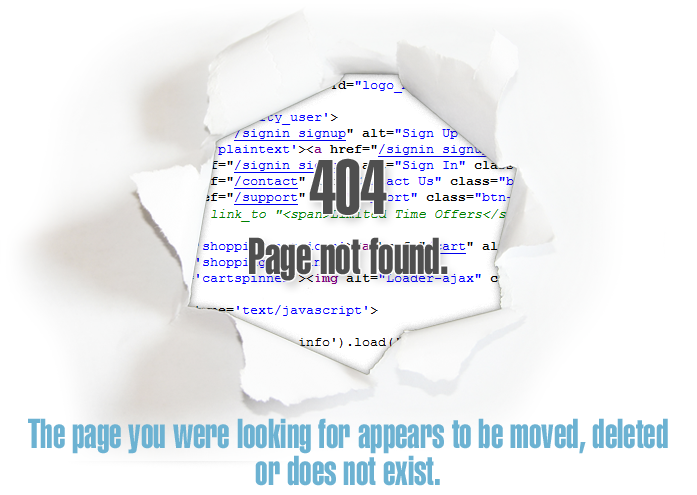
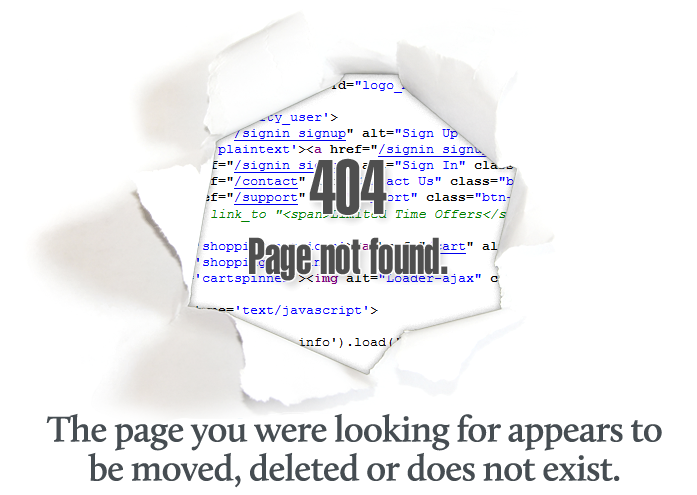
404 update

Changed region(s): [[0.0301, 0.8182, 0.9641, 1.0]]

diff --git a/public/404_szus.html b/public/404_szus.html
@@ -1,161 +1,193 @@
-<html lang="en-US">
-<head>
-<title>Sizzix.com
--
-Die-Cutting and Embossing Tools for Today’s Crafter</title>
-<meta name="keywords" content="Papercrafting, arts &amp; crafts, crafting, cardmaking, scrapbooking, altered art, Tim Holtz, appliqué, embossing, eclips, Big Shot Machine, Stamp2Cut, die-cutter, accessories, projects, birthday decorations, quilting, do-it-yourself">
-<meta name="p:domain_verify" content="b297c2f85e4b149150e902960266aac3">
-<meta http-equiv="X-UA-Compatible" content="IE=8">
-<meta name="description" content="Sizzix puts creativity in your hands with the craftiest die cutting machines, die cutting tools, accessories, and embossing equipment in the arts and craft industry!">
-<meta name="google-site-verification" content="a-tBw1x2TUwR80EavxHbXMxxiMYa5ban3haNUZPpQyE">
-<link type="text/css" rel="stylesheet" media="all" href="/stylesheets/jqui-ellison3/jquery-ui-1.8.4.custom.css?1420790110">
-<link type="text/css" rel="stylesheet" media="screen" href="/stylesheets/event_calendar.css?1420790110">
-<link type="text/css" rel="stylesheet" media="screen" href="/stylesheets/iphone-style-checkboxes.css?1420790110">
-<link type="text/css" rel="stylesheet" media="screen" href="/stylesheets/jquery.jqzoom.css?1420790110">
-<link type="text/css" rel="stylesheet" media="screen" href="/stylesheets/jquery.tooltip.css?1420790110">
-<link type="text/css" rel="stylesheet" media="screen" href="/stylesheets/jquery.validate.password.css?1420790110">
-<link type="text/css" rel="stylesheet" media="screen" href="/stylesheets/jqzoom.css?1420790110">
-<link type="text/css" rel="stylesheet" media="screen, projection" href="/stylesheets/compiled/screen_szus.css?1420790293">
-<link type="text/css" rel="stylesheet" media="screen, projection" href="/stylesheets/compiled/application.css?1420790278">
-<link type="text/css" rel="stylesheet" media="print" href="/stylesheets/compiled/print.css?1420790279">
-<!--[if lt IE 8]>
-<link href="/stylesheets/compiled/ie.css?1420790278" media="screen, projection" rel="stylesheet" type="text/css" />
-<![endif]-->
-<link type="text/css" rel="stylesheet" media="screen, projection" href="/stylesheets/jquery.jqzoom.css?1420790110">
-<link type="text/css" rel="stylesheet" media="screen, projection" href="/javascripts/fancybox/jquery.fancybox-1.3.4.css?1420790110">
-<link type="text/css" rel="stylesheet" media="screen, projection" href="/stylesheets/jquery.validate.password.css?1420790110">
-<link type="text/css" rel="stylesheet" media="screen, projection" href="/stylesheets/iphone-style-checkboxes.css?1420790110">
-<link type="text/css" rel="stylesheet" media="screen, projection" href="/stylesheets/jquery.tooltip.css?1420790110">
-<link type="text/css" rel="stylesheet" media="screen, projection" href="/stylesheets/bubblepopup/jquery.bubblepopup.v2.3.1.css?1420790110">
-<link type="text/css" rel="stylesheet" media="screen" href="/stylesheets/event_calendar.css?1420790110">
-<link type="text/css" rel="stylesheet" media="screen" href="/javascripts/cl_style.css?1420790110">
-<link type="text/css" rel="stylesheet" media="screen" href="/reskin_sheets/reskin.css?1420790096">
-<!--[if IE]>
-<link href="/reskin_sheets/ie-all.css?1420790096" media="screen" rel="stylesheet" type="text/css" />
-<![endif]-->
-<!-- Google Web Fonts -->
-<link type="text/css" rel="stylesheet" media="screen" href="http://fonts.googleapis.com/css?family=PT+Sans:regular,bold&amp;subset=latin">
-<script type="text/javascript" src="http://ajax.aspnetcdn.com/ajax/jQuery/jquery-1.5.2.min.js"></script>
-<script type="text/javascript" src="/javascripts/jquery-ui.js?1420790110"></script>
-<script type="text/javascript" src="/javascripts/jquery-ui-timepicker-addon.min.js?1420790110"></script>
-<script type="text/javascript" src="/javascripts/wymeditor/jquery.wymeditor.min.js?1420790110"></script>
-<script type="text/javascript" src="/javascripts/jquery.jqzoom-core-pack.js?1420790110"></script>
-<script type="text/javascript" src="/javascripts/jquery.form.js?1420790110"></script>
-<script type="text/javascript" src="/javascripts/fancybox/jquery.fancybox-1.3.4.pack.js?1420790110"></script>
-<script type="text/javascript" src="/javascripts/fancybox/jquery.easing-1.3.pack.js?1420790110"></script>
-<script type="text/javascript" src="/javascripts/jquery.validate.min.js?1420790110"></script>
-<script type="text/javascript" src="/javascripts/jquery.validate.password.js?1420790110"></script>
-<script type="text/javascript" src="/javascripts/jquery.ba-bbq.min.js?1420790110"></script>
-<script type="text/javascript" src="/javascripts/jquery.editinplace.js?1420790110"></script>
-<script type="text/javascript" src="/javascripts/iphone-style-checkboxes.js?1420790110"></script>
-<script type="text/javascript" src="/javascripts/jquery.tooltip.min.js?1420790110"></script>
-<script type="text/javascript" src="/javascripts/bubblepopup/jquery.bubblepopup.v2.3.1.min.js?1420790110"></script>
-<script type="text/javascript" src="/javascripts/date.js?1420790110"></script>
-<script type="text/javascript" src="/javascripts/application.js?1420790143"></script>
-<script type="text/javascript" src="/javascripts/view_toggle.js?1420790143"></script>
-<script type="text/javascript" src="/javascripts/store_locator.js?1420790110"></script>
-<script type="text/javascript" src="/javascripts/admin/store.js?1420790110"></script>
-<script type="text/javascript" src="/javascripts/shadowOn/jquery.dotimeout.js?1420790110"></script>
-<script type="text/javascript" src="/javascripts/shadowOn/jquery.guid.js?1420790110"></script>
-<script type="text/javascript" src="/javascripts/shadowOn/jquery.shadowon.min.js?1420790110"></script>
-<script type="text/javascript" src="/javascripts/sudoSlider/jquery.sudoSlider.min.js?1420790110"></script>
-<script type="text/javascript" src="/javascripts/fancybox/jquery.mousewheel-3.0.4.pack.js?1420790110"></script>
-<script type="text/javascript" src="/javascripts/jcarousellite/jcarousellite_1.0.1.min.js?1420790110"></script>
-<script type="text/javascript" src="/javascripts/fonteffect/jquery-fonteffect-1.0.0.min.js?1420790110"></script>
-<script type="text/javascript" src="/javascripts/countdown_timer.js?1420790110"></script>
-<script type="text/javascript" src="/javascripts/jumpmenu.js?1420790110"></script>
-<script type="text/javascript" src="/javascripts/uk_survey.js?1420790110"></script>
-<script type="text/javascript" src="/javascripts/hoverintent/jquery.hoverIntent.minified.js?1420790110"></script>
-<script type="text/javascript" src="/javascripts/event_calendar.js?1420790110"></script>
-<script type="text/javascript" src="/javascripts/jquery.rails.js?1420790110"></script>
-<script type="text/javascript" src="/javascripts/jquery.remotipart.js?1420790110"></script>
-<script type="text/javascript" src="/javascripts/rails_remote.js?1420790110"></script>
-<script type="text/javascript" src="/javascripts/jquery.uploadProgress.js?1420790110"></script>
-<script type="text/javascript" src="/javascripts/js_loader.js?1420790110"></script>
-<script type="text/javascript" src="/javascripts/reskin.js?1420790110"></script>
-<meta name="csrf-param" content="authenticity_token">
-<meta name="csrf-token" content="1RaAmbVTYFMd0WkSnOyp5B8iHJmdY3Kt6v5w9a+9+Yo=">
-<!-- System Favicons -->
-<link type="image/x-icon" rel="icon" href="/images/favicons/s_favicon.ico">
-<link type="image/x-icon" rel="shortcut icon" href="/images/favicons/s_favicon.ico">
-<!-- Sizzix UK Cookie Notify -->
-
-</head>
-<body class="bp" data-twttr-rendered="true" style="background:color:white!important;">
-<div id="root">
-  <div class="container">
-    <div class="design-gutter dontprint"> &nbsp; </div>
-    <div class="main">
-      <div style="height:139px;" id="header">
-        <div class="dontprint">
-          <h1 class="masthead"> <a href="/home" alt="Sizzix" id="logo_masthead" title="Sizzix">Sizzix</a> </h1>
+<html lang="en-US"><head>
+    <script type="text/javascript" async="" src="http://www.google-analytics.com/ga.js"></script><script src="http://platform.twitter.com/widgets.js" id="twitter-wjs"></script><script src="http://www.google-analytics.com/ga.js" async="" type="text/javascript"></script><script>
+      var current_system = "szus";
+    </script>
+    <title>
+      Sizzix.com
+      -
+      Die-Cutting and Embossing Tools for Today’s Crafter
+    </title>
+    <meta content="Papercrafting, arts &amp; crafts, crafting, cardmaking, scrapbooking, altered art, Tim Holtz, appliqué, embossing, eclips, Big Shot Machine, Stamp2Cut, die-cutter, accessories, projects, birthday decorations, quilting, do-it-yourself" name="keywords">
+    <meta content="b297c2f85e4b149150e902960266aac3" name="p:domain_verify">
+    <meta content="IE=8" http-equiv="X-UA-Compatible">
+    <meta content="Sizzix puts creativity in your hands with the craftiest die cutting machines, die cutting tools, accessories, and embossing equipment in the arts and craft industry!" name="description">
+    <meta content="a-tBw1x2TUwR80EavxHbXMxxiMYa5ban3haNUZPpQyE" name="google-site-verification">
+    <link href="/stylesheets/jqui-ellison3/jquery-ui-1.8.4.custom.css?1365520764" media="all" rel="stylesheet" type="text/css">
+    <link href="/stylesheets/event_calendar.css?1341939593" media="screen" rel="stylesheet" type="text/css">
+    <link href="/stylesheets/iphone-style-checkboxes.css?1341939593" media="screen" rel="stylesheet" type="text/css">
+    <link href="/stylesheets/jquery.jqzoom.css?1365520764" media="screen" rel="stylesheet" type="text/css">
+    <link href="/stylesheets/jquery.tooltip.css?1341939593" media="screen" rel="stylesheet" type="text/css">
+    <link href="/stylesheets/jquery.validate.password.css?1341939593" media="screen" rel="stylesheet" type="text/css">
+    <link href="/stylesheets/jqzoom.css?1365520764" media="screen" rel="stylesheet" type="text/css">
+    <link href="/stylesheets/compiled/screen_szus.css?1420837787" media="screen, projection" rel="stylesheet" type="text/css">
+    <link href="/stylesheets/compiled/application.css?1394555977" media="screen, projection" rel="stylesheet" type="text/css">
+    <link href="/stylesheets/compiled/print.css?1394554469" media="print" rel="stylesheet" type="text/css">
+    <!--[if lt IE 8]>
+      <link href="/stylesheets/compiled/ie.css?1394554469" media="screen, projection" rel="stylesheet" type="text/css" />
+    <![endif]-->
+    <link href="/stylesheets/jquery.jqzoom.css?1365520764" media="screen, projection" rel="stylesheet" type="text/css">
+    <link href="/javascripts/fancybox/jquery.fancybox-1.3.4.css?1341939593" media="screen, projection" rel="stylesheet" type="text/css">
+    <link href="/stylesheets/jquery.validate.password.css?1341939593" media="screen, projection" rel="stylesheet" type="text/css">
+    <link href="/stylesheets/iphone-style-checkboxes.css?1341939593" media="screen, projection" rel="stylesheet" type="text/css">
+    <link href="/stylesheets/jquery.tooltip.css?1341939593" media="screen, projection" rel="stylesheet" type="text/css">
+    <link href="/stylesheets/bubblepopup/jquery.bubblepopup.v2.3.1.css?1341939593" media="screen, projection" rel="stylesheet" type="text/css">
+    <link href="/stylesheets/event_calendar.css?1341939593" media="screen" rel="stylesheet" type="text/css">
+    <link href="/javascripts/cl_style.css?1345155977" media="screen" rel="stylesheet" type="text/css">
+    <link href="/reskin_sheets/reskin.css?1420837727" media="screen" rel="stylesheet" type="text/css">
+    <!--[if IE]>
+      <link href="/reskin_sheets/ie-all.css?1420833352" media="screen" rel="stylesheet" type="text/css" />
+    <![endif]-->
+    <!-- Google Web Fonts -->
+    <link href="http://fonts.googleapis.com/css?family=PT+Sans:regular,bold&amp;subset=latin" media="screen" rel="stylesheet" type="text/css">
+    <script src="http://ajax.aspnetcdn.com/ajax/jQuery/jquery-1.5.2.min.js" type="text/javascript"></script>
+    <!--[if IE]>
+      <script src="https://getfirebug.com/firebug-lite.js" type="text/javascript"></script>
+    <![endif]-->
+    <!-- System Favicons -->
+    <link href="/images/favicons/s_favicon.ico" rel="icon" type="image/x-icon">
+    <link href="/images/favicons/s_favicon.ico" rel="shortcut icon" type="image/x-icon">
+    <script>
+      var _gaq = _gaq || [];
+      _gaq.push(['_setAccount', 'UA-12678772-3']);
+      _gaq.push(['_trackPageview', location.pathname + location.hash + location.search]);
+    </script>
+    <script>
+      (function() {
+        var ga = document.createElement('script'); ga.type = 'text/javascript'; ga.async = true;
+        ga.src = ('https:' == document.location.protocol ? 'https://ssl' : 'http://www') + '.google-analytics.com/ga.js';
+        var s = document.getElementsByTagName('script')[0]; s.parentNode.insertBefore(ga, s);
+      })();
+    </script>
+    <!-- Sizzix UK Cookie Notify -->
+    
+  </head>
+  <body data-twttr-rendered="true" class="bp">
+    <div id="root">
+      <div class="container">
+        <div class="design-gutter dontprint">
+          &nbsp;
         </div>
-        <div class="dontdisplay" id="printmasthead">
-          <h1>Sizzix.com</h1>
-        </div>
-        <div class="dontprint" id="nav_megamenu"> </div>
-        <div class="clear"></div>
+        <div class="main">
+          <div style="height:149px!important;" id="header">
+            <div class="dontprint">
+              <h1 class="masthead">
+                <a href="/home" alt="Sizzix" id="logo_masthead" title="Sizzix">Sizzix</a>
+              </h1>
+              
+              
+              
+              
+              
+              <script>
+                $("input.textfield").addClass("idlefield");
+                $("input.textfield").focus(function(){
+                  $(this).addClass("activefield").removeClass("idlefield");
+                  $(this).val('');
+                }).blur(function(){
+                  $(this).removeClass("activefield").addClass("idlefield");
+                });
+                $("input.textfield").click(function(){
+                  $(this).val('');
+                });
+                
+                $('#q').change(function() {        
+                  $(this).removeClass("activefield").addClass("idlefield");
+                });
+                $("#q").autocomplete({
+                  source: function(request, response) {
+                    $.ajax({
+                      url: "/szus_solr_terms/"+request.term,
+                      dataType: 'text json',
+                      data: {},
+                      success: function( data ) {response($.map(data.terms[0][1],function(n,i){return n[0]}))}
+                    });
+                  },
+                  search: function() {
+                    if (this.value.length &amp;lt; 1) {
+                      return false;
+                    }
+                  },
+                  focus: function( event, ui ) {
+                          $(this).val( ui.item.label );
+                          return false;
+                        },
+                  select: function(event, ui) {
+                    this.value = ui.item.value;
+                    $(this.form).trigger('submit');
+                    return false;
+                  }});
+                $('#searchbar').submit(function() {
+                  var default_value = "Search for Sizzix Products &amp;amp; Projects";
+                  var search_value = escape($('#q').val());
+                  if (search_value == default_value) {
+                    return false;
+                  } else {
+                    location.href = 'http://'+location.host+'/catalog#q='+search_value;return false;
+                  }
+                });
+              </script>
+            </div>
+            <div class="dontdisplay" id="printmasthead">
+              <h1>Sizzix.com</h1>
+            </div>
+            <div class="clear"></div>
+          </div>
+          <div id="content">
+              <!-- This file lives in public/404_szus.html -->
+  <img width="697" height="495" style="margin-left:126px; margin-bottom:6px;" src="/images/ui-backgrounds/404.png" class="message">
+  
+<table width="472" cellspacing="0" cellpadding="0" border="0" style="width: 472px; margin-left: 238px;">
+  <tbody>
+    <tr>
+      <td class="text2" style="padding:2px 10px 0 10px"><table cellspacing="0" cellpadding="0" border="0" class="ui-widget ui-widget-content ui-corner-all">
+          <tbody>
+            
+          </tbody>
+        </table></td>
+    </tr>
+    <tr>
+      <td class="text2" style="padding:0 10px 11px 20px"><div class="text1boldblue">
+        <h2 align="center" style="font-weight:bold; color:#6CB2D2;">We Suggest:</h2>
       </div>
-      <div id="content">
-        <div class="main" style="padding-top:0px!important;>
-          <div id="content"> 
-            <!-- This file lives in public/404_szus.html --> 
-            <img class="message" src="/images/ui-backgrounds/404.png" width="697" height="495" style="margin-left:126px; margin-bottom:6px;"/>
-            <table width="472" cellspacing="0" cellpadding="0" border="0" style="border:dotted 1px #ccc; width:472px; margin-left:238px;">
-              <tbody>
-              
-              <tr>
-              
-              <td style="padding:2px 10px 0 10px" class="text2"><table cellspacing="0" cellpadding="0" border="0">
-                  <tbody>
-                  </tr>
-                  
-                  </tbody>
-                  
-                </table></td>
-              </tr>
-              
-              <tr>
-                <td style="padding:0 10px 11px 20px" class="text2"><div class="text1boldblue">
-                    <h2 align="center" style="font-weight:bold; color:#6CB2D2;">We Suggest:</h2>
-                  </div>
-                  <div>
-                  <p align="center">You might check to see if you've typed in the address incorrectly. Otherwise, the page may no longer exist.</p>
-                  <ul>
-                    <li>Click your browser's <span class="text2bold">Back</span> button to return to the previous page.</li>
-                    <li>Click here to return to the <a href="/home">Home Page</a></li>
-                  </ul></td>
-              </tr>
-              </tbody>
-              
-            </table>
+        <div>
+          <p align="center">You might check to see if you've typed in the address incorrectly. Otherwise, the page may no longer exist.</p>
+        <ul>
+          <li>Click your browser's <span class="text2bold">Back</span> button to return to the previous page.</li>
+          <li>Click here to return to the <a href="/home">Home Page</a></li>
+        </ul></div></td>
+    </tr>
+  </tbody>
+</table>
+  
           </div>
         </div>
-        <div class="clear"></div>
+        <div class="design-gutter dontprint last">
+          &nbsp;
+        </div>
       </div>
-    </div>
-    <div class="design-gutter dontprint last"> &nbsp; </div>
-  </div>
-</div>
-<ul class="ui-autocomplete ui-menu ui-widget ui-widget-content ui-corner-all" role="listbox" aria-activedescendant="ui-active-menuitem" style="z-index: 1000; top: 0px; left: 0px; display: none;">
-</ul>
-</body>
-<div id="footer" class="dontprint">
-  <div class="container">
-    <div class="design-gutter dontprint"> &nbsp; </div>
-    <div class="main">
-      <div id="content"></div>
-    </div>
-    <div class="legal-wrap">
-      <div class="legal">
-        <div class="clear"></div>
-        <div style="text-align:center; font-weight:bold;" class="copyright"> Sizzix puts creativity in your hands with the craftiest die-cutting and embossing possibilities! </div>
-        <div class="copyright"> Copyright &copy; <span><a title="Ellison" target="blank" alt="Ellison" href="#"><img width="57" height="20" src="/images/ui-icons/set_social-media/ellison.png?1420790110" alt="Ellison"></a></span> 1996 - 2015. All rights reserved. <br>
-          This site is intended for visitors within the United States.
-          <li style="list-style:none"><a href="http://www.sizzix.co.uk">European visitors please visit our U.K. site</a></li>
+      <div id="root_footer"></div>
+    </div><ul style="z-index: 1000; top: 0px; left: 0px; display: none;" aria-activedescendant="ui-active-menuitem" role="listbox" class="ui-autocomplete ui-menu ui-widget ui-widget-content ui-corner-all"></ul>
+    <div class="dontprint" id="footer">
+      <div class="container">
+        <div class="design-gutter dontprint">
+          &nbsp;
+        </div>
+        
+        <div class="legal-wrap">
+          <div class="legal">
+            <div class="clear"></div>
+            <div class="copyright" style="text-align:center; font-weight:bold;">
+              Sizzix puts creativity in your hands with the craftiest die-cutting and embossing possibilities!
+            </div>
+            <div class="copyright">
+              Copyright &copy;
+              <span><a href="#" alt="Ellison" target="blank" title="Ellison"><img width="57" height="20" alt="Ellison" src="/images/ui-icons/set_social-media/ellison.png?1420831293"></a></span>
+              1996 - 2015. All rights reserved.
+              <br>
+              This site is intended for visitors within the United States.
+              <li style="list-style:none"><a href="http://www.sizzix.co.uk">European visitors please visit our U.K. site</a></li>
+            </div>
+          </div>
         </div>
       </div>
     </div>
-  </div>
-</div>
-</html>
